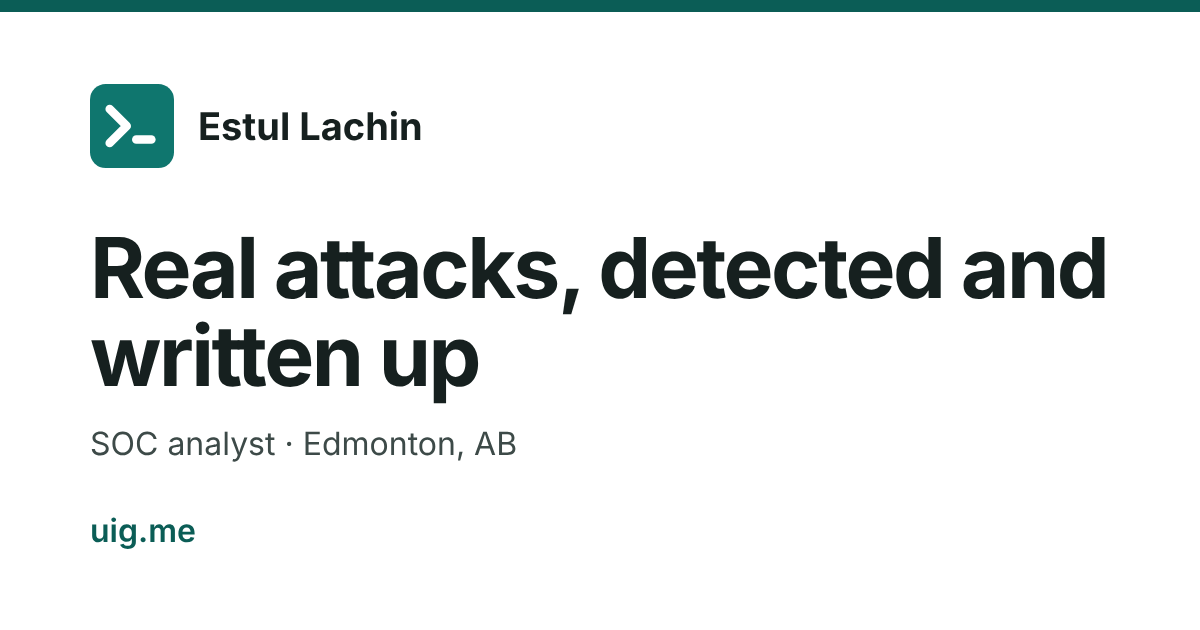
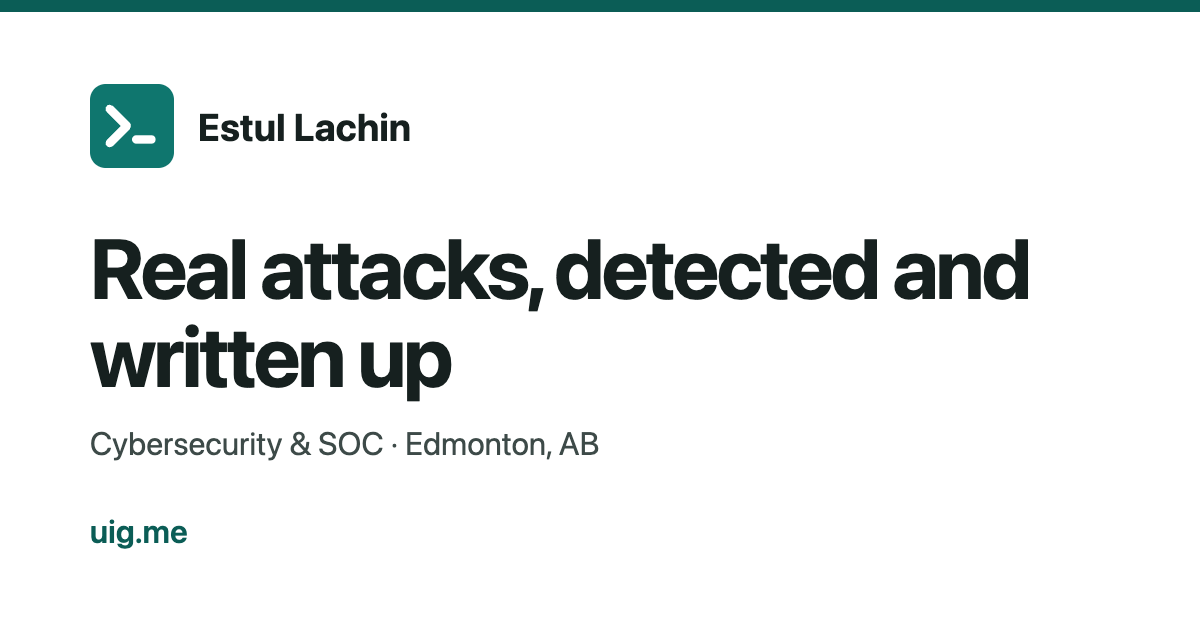
Update website headline and og-image to Cybersecurity & SOC · Edmonton, AB

diff --git a/site/index.html b/site/index.html
@@ -5,17 +5,17 @@
 <meta name="viewport" content="width=device-width, initial-scale=1">
 <meta http-equiv="Content-Security-Policy" content="default-src 'none'; script-src 'self'; style-src 'self'; img-src 'self'; connect-src 'self' https://raw.githubusercontent.com; base-uri 'none'; form-action 'none'">
 <meta name="referrer" content="strict-origin-when-cross-origin">
-<title>Estul Lachin · SOC analyst, Edmonton</title>
-<meta name="description" content="Estul Lachin, SOC analyst in Edmonton, AB. I run decoy servers, detect what attackers do on them and investigate every case.">
-<meta property="og:title" content="Estul Lachin · SOC analyst, Edmonton">
-<meta property="og:description" content="Estul Lachin, SOC analyst in Edmonton, AB. I run decoy servers, detect what attackers do on them and investigate every case.">
+<title>Estul Lachin · Cybersecurity &amp; SOC, Edmonton</title>
+<meta name="description" content="Estul Lachin · Cybersecurity &amp; SOC in Edmonton, AB. I run decoy servers, detect what attackers do on them and investigate every case.">
+<meta property="og:title" content="Estul Lachin · Cybersecurity &amp; SOC, Edmonton">
+<meta property="og:description" content="Estul Lachin · Cybersecurity &amp; SOC in Edmonton, AB. I run decoy servers, detect what attackers do on them and investigate every case.">
 <meta property="og:url" content="https://uig.me/">
 <meta property="og:type" content="profile">
 <link rel="canonical" href="https://uig.me/">
 <meta property="og:image" content="https://uig.me/og-image.png">
 <meta property="og:image:width" content="1200">
 <meta property="og:image:height" content="630">
-<meta property="og:image:alt" content="Estul Lachin, SOC analyst: real attacks, detected and written up">
+<meta property="og:image:alt" content="Estul Lachin · Cybersecurity &amp; SOC: real attacks, detected and written up">
 <meta name="twitter:card" content="summary_large_image">
 <link rel="icon" href="/favicon.svg" type="image/svg+xml">
 <link rel="icon" href="/favicon.ico" sizes="32x32">
@@ -48,7 +48,7 @@
   <section class="hero">
     <div class="wrap">
       <div class="hero-text">
-        <p class="kicker">SOC analyst · Edmonton, AB</p>
+        <p class="kicker">Cybersecurity &amp; SOC · Edmonton, AB</p>
         <h1>I watch real attacks every day, and I write down what happened.</h1>
         <p class="lead">I run two decoy servers on the internet. Attackers break in, my alerts catch them, and I
           investigate each case the way a security operations team does. Everything on this site is that work.</p>

diff --git a/site/about/index.html b/site/about/index.html
@@ -6,16 +6,16 @@
 <meta http-equiv="Content-Security-Policy" content="default-src 'none'; style-src 'self'; img-src 'self'; base-uri 'none'; form-action 'none'">
 <meta name="referrer" content="strict-origin-when-cross-origin">
 <title>About · Estul Lachin</title>
-<meta name="description" content="About Estul Lachin: SOC analyst in Edmonton, AB, with a background in engineering and IT support.">
+<meta name="description" content="About Estul Lachin: cybersecurity &amp; SOC in Edmonton, AB, with a background in engineering and IT support.">
 <meta property="og:title" content="About · Estul Lachin">
-<meta property="og:description" content="About Estul Lachin: SOC analyst in Edmonton, AB, with a background in engineering and IT support.">
+<meta property="og:description" content="About Estul Lachin: cybersecurity &amp; SOC in Edmonton, AB, with a background in engineering and IT support.">
 <meta property="og:url" content="https://uig.me/about/">
 <meta property="og:type" content="website">
 <link rel="canonical" href="https://uig.me/about/">
 <meta property="og:image" content="https://uig.me/og-image.png">
 <meta property="og:image:width" content="1200">
 <meta property="og:image:height" content="630">
-<meta property="og:image:alt" content="Estul Lachin, SOC analyst: real attacks, detected and written up">
+<meta property="og:image:alt" content="Estul Lachin · Cybersecurity &amp; SOC: real attacks, detected and written up">
 <meta name="twitter:card" content="summary_large_image">
 <link rel="icon" href="/favicon.svg" type="image/svg+xml">
 <link rel="icon" href="/favicon.ico" sizes="32x32">
@@ -40,7 +40,7 @@
   <section class="page-head">
     <div class="wrap">
       <h1>About me</h1>
-      <p>SOC analyst in Edmonton, Alberta. Permanent Resident of Canada. I speak English, Turkish and Chinese.</p>
+      <p>Cybersecurity &amp; SOC · Edmonton, Alberta. Permanent Resident of Canada. I speak English, Turkish and Chinese.</p>
     </div>
   </section>
   <section class="band">

diff --git a/assets/og-image.html b/assets/og-image.html
@@ -18,6 +18,6 @@
 </style></head><body>
   <div class="top"><img src="favicon.svg" alt=""><span class="name">Estul Lachin</span></div>
   <h1>Real attacks, detected and written up</h1>
-  <div class="by">SOC analyst · Edmonton, AB</div>
+  <div class="by">Cybersecurity &amp; SOC · Edmonton, AB</div>
   <div class="url">uig.me</div>
 </body></html>
